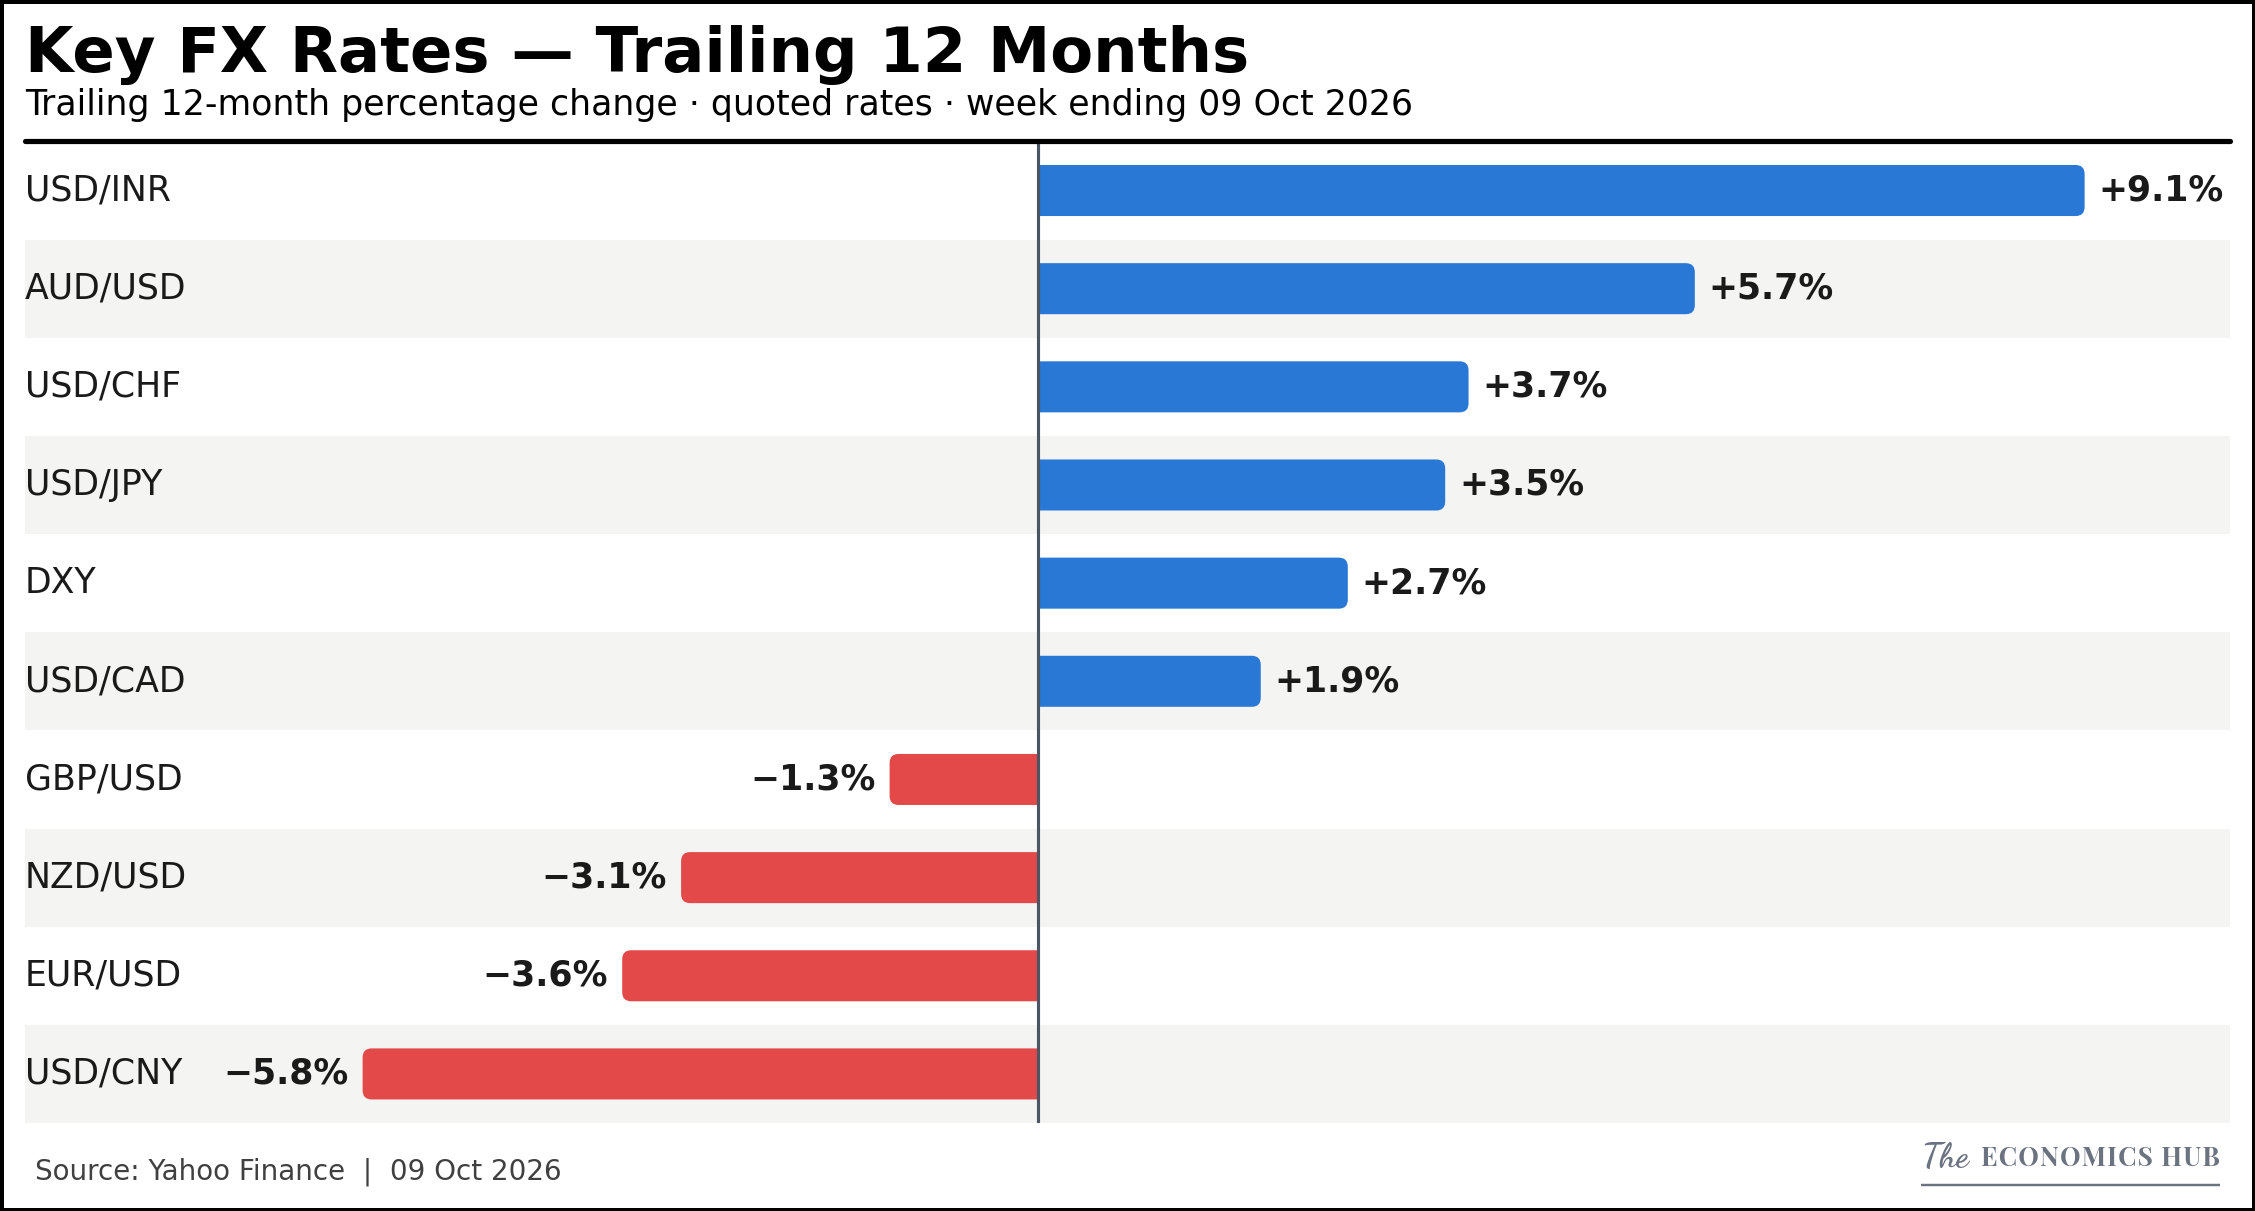
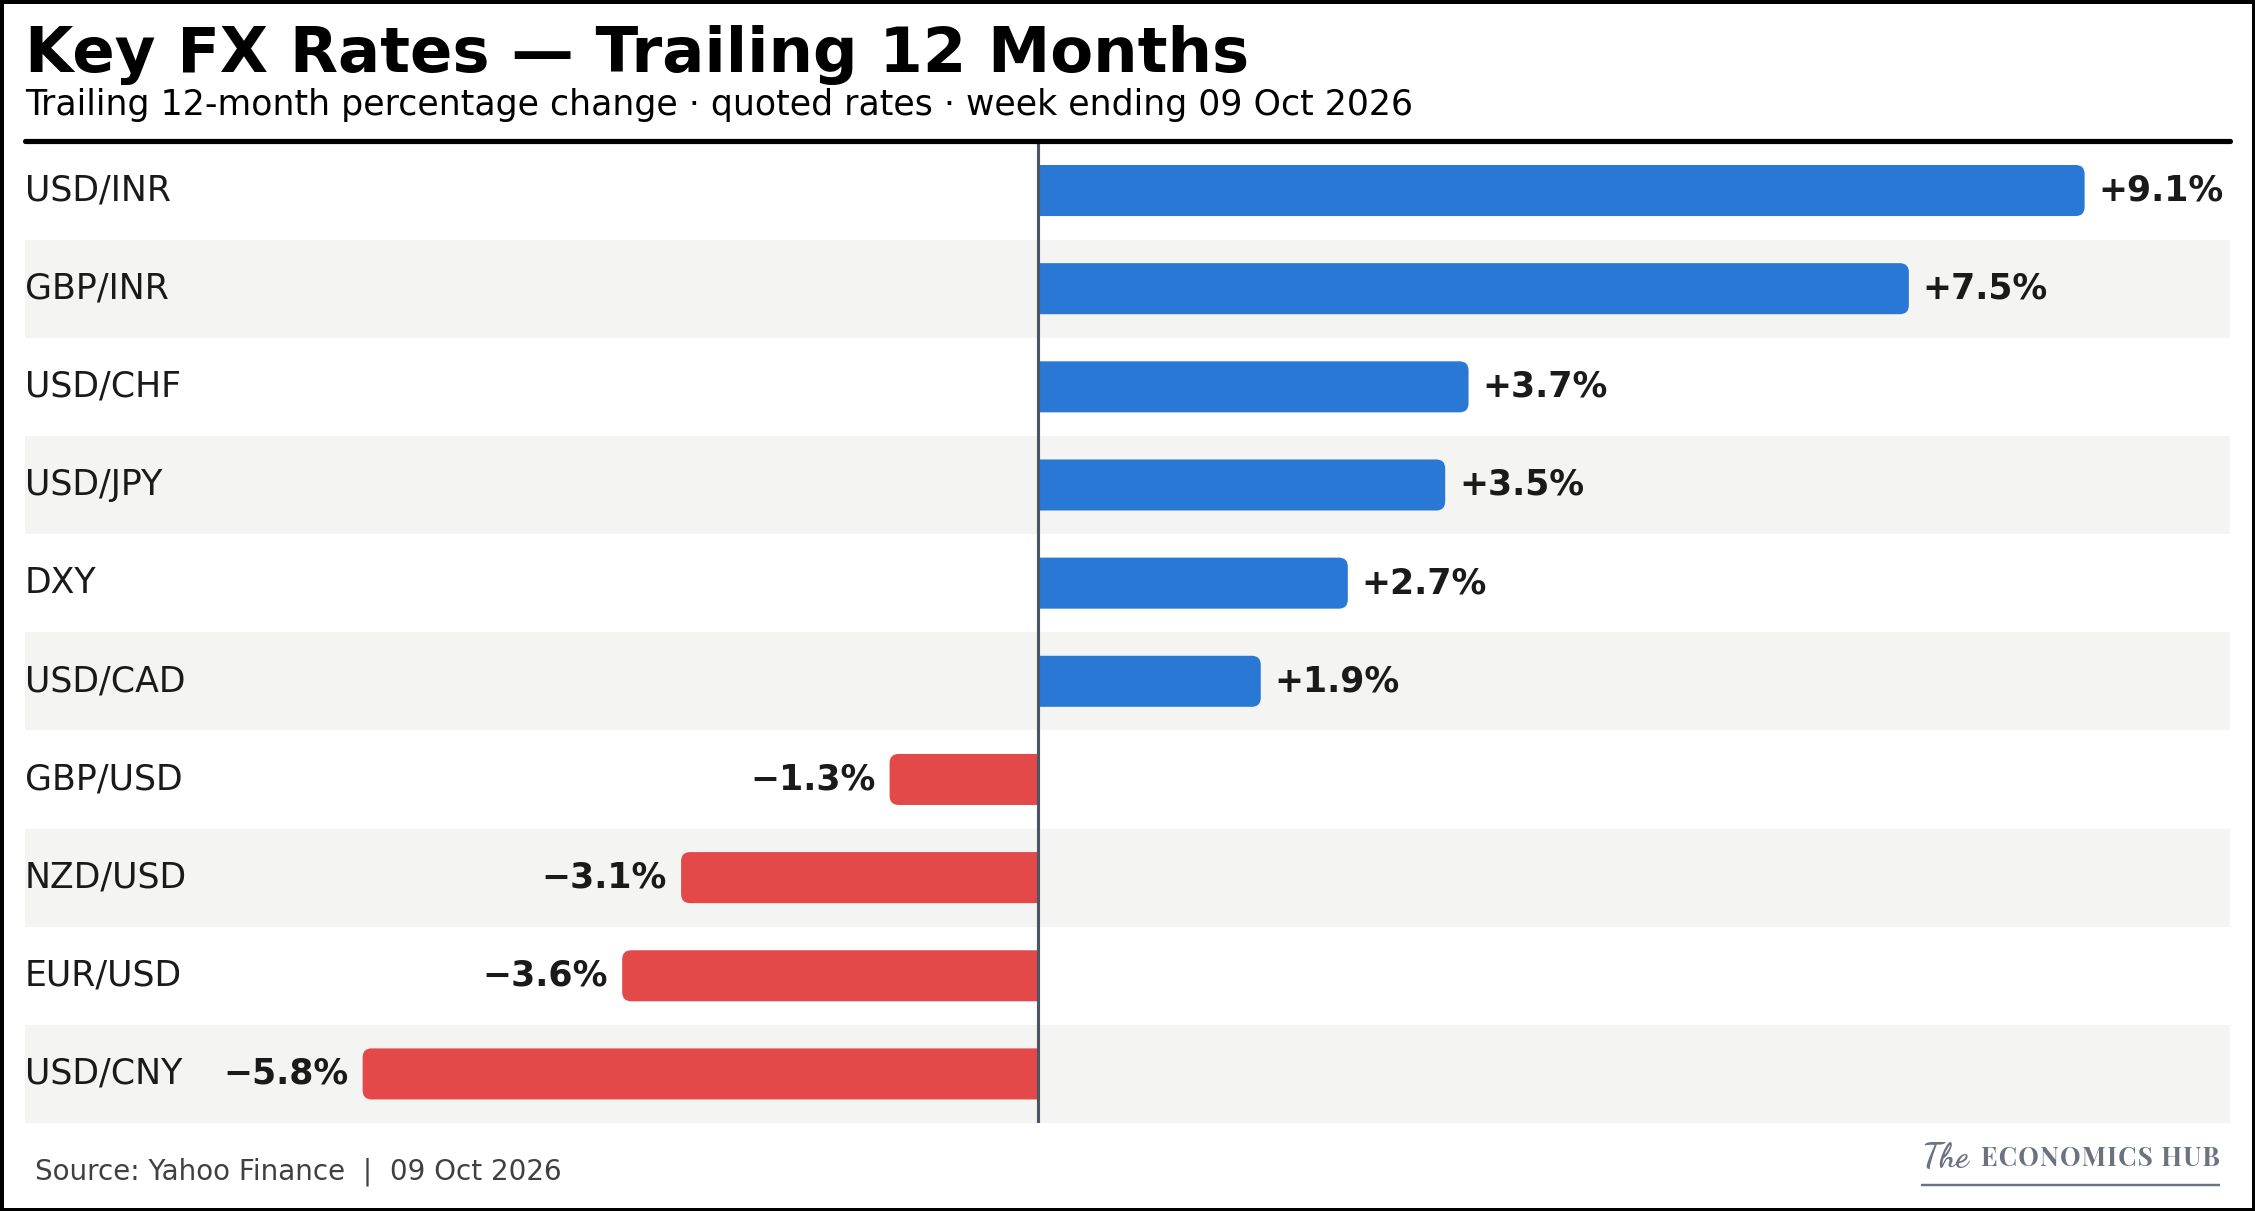
fix: replace AUD USD with GBP INR in currency charts

Changed region(s): [[0.745, 0.2139, 0.9002, 0.275], [0.0, 0.2139, 0.0931, 0.2444]]

diff --git a/config/insights.py b/config/insights.py
@@ -120,13 +120,13 @@ Youth unemployment is structurally higher than overall unemployment; compare the
     # ── WEEKLY: FOREIGN EXCHANGE ────────────────────────────────────────────
 
     "fx_weekly": """\
-**How to read this chart:** Weekly percentage moves from the previous completed Friday to the latest completed Friday in nine currency pairs and DXY (US Dollar Index). For EUR/USD, GBP/USD, AUD/USD and NZD/USD, a positive bar means the dollar *weakened*. For USD/INR, USD/JPY, USD/CNY, USD/CAD and USD/CHF, a positive bar means the dollar *strengthened*. DXY provides the dollar-basket context. Blue and red show the sign of the quoted rate's move, rather than whether it is good or bad.
+**How to read this chart:** Weekly percentage moves from the previous completed Friday to the latest completed Friday in nine currency pairs and DXY (US Dollar Index). For EUR/USD, GBP/USD and NZD/USD, a positive bar means the dollar *weakened*. For USD/INR, USD/JPY, USD/CNY, USD/CAD and USD/CHF, a positive bar means the dollar *strengthened*. A positive GBP/INR bar means sterling strengthened against the rupee. DXY provides the dollar-basket context. Blue and red show the sign of the quoted rate's move, rather than whether it is good or bad.
 
 **Practical takeaway:** Dollar strength weeks (DXY up, EM pairs showing dollar appreciation) tend to coincide with risk-off sentiment, rising US yields, or hawkish Fed rhetoric. Watch the USD/INR bar against the India VIX: when the rupee depreciates alongside rising India VIX, it signals portfolio capital outflows. A divergence where USD/JPY weakens sharply without a corresponding DXY move may indicate a carry trade unwind — historically a precursor to broader EM volatility.
 """,
 
     "fx_trend": """\
-**How to read this chart:** Ranked percentage changes over the trailing 12 months for the same nine currency pairs and DXY shown in the weekly chart. Blue bars mean the quoted rate rose; red bars mean it fell. A positive EUR/USD, GBP/USD, AUD/USD or NZD/USD bar means the dollar weakened against that currency. A positive USD/INR, USD/JPY, USD/CNY, USD/CAD or USD/CHF bar means the dollar strengthened. DXY rising indicates a stronger dollar against its basket. Returns compare observed closes around the last completed Friday and the same date one year earlier.
+**How to read this chart:** Ranked percentage changes over the trailing 12 months for the same nine currency pairs and DXY shown in the weekly chart. Blue bars mean the quoted rate rose; red bars mean it fell. A positive EUR/USD, GBP/USD or NZD/USD bar means the dollar weakened against that currency. A positive USD/INR, USD/JPY, USD/CNY, USD/CAD or USD/CHF bar means the dollar strengthened. A positive GBP/INR bar means sterling strengthened against the rupee. DXY rising indicates a stronger dollar against its basket. Returns compare observed closes around the last completed Friday and the same date one year earlier.
 
 **Practical takeaway:** Compare the weekly and 12-month bars to see whether the week's move extends or reverses the longer-term direction. Read each pair's quote direction before comparing it with DXY. For India, a rising USD/INR bar means rupee depreciation over the period and more rupees needed for dollar-priced imports.
 """,

diff --git a/config/weekly_settings.py b/config/weekly_settings.py
@@ -22,7 +22,7 @@ WEEKLY_FX = {
     "USD/INR": "INR=X",
     "USD/JPY": "JPY=X",
     "USD/CNY": "CNY=X",
-    "AUD/USD": "AUDUSD=X",
+    "GBP/INR": "GBPINR=X",
     "USD/CAD": "CAD=X",
     "USD/CHF": "CHF=X",
     "NZD/USD": "NZDUSD=X",

diff --git a/docs/project_context.md b/docs/project_context.md
@@ -454,7 +454,7 @@ draws them instead — the snapshot table (00), the trend lines (02, 04, 08) and
 | `12_breakeven_inflation` | Breakeven Inflation | Rates, Inflation & Credit | 5- and 10-year breakevens | FRED T5YIE T10YIE |
 | `11_credit_spreads` | Credit Spreads | Rates, Inflation & Credit | IG and HY option-adjusted spreads, 2 years | FRED BAMLC0A0CM BAMLH0A0HYM2 |
 | `18_bond_etf_returns` | Bond ETF Returns | Rates, Inflation & Credit | Trailing 12-month total returns | Yahoo: TLT, LQD, HYG |
-| `03_fx_weekly` | FX Weekly | Currencies | Ranked weekly % change, completed Friday closes | Yahoo: DXY, EUR/USD, GBP/USD, USD/INR, USD/JPY, USD/CNY, AUD/USD, USD/CAD, USD/CHF, NZD/USD |
+| `03_fx_weekly` | FX Weekly | Currencies | Ranked weekly % change, completed Friday closes | Yahoo: DXY, EUR/USD, GBP/USD, USD/INR, USD/JPY, USD/CNY, GBP/INR, USD/CAD, USD/CHF, NZD/USD |
 | `04_fx_trend` | FX TTM | Currencies | Ranked trailing 12-month % change; same ten rates | Yahoo: same set as FX Weekly; `charts/weekly_fx.py`, universe in `config/weekly_settings.py` |
 | `21_em_equity_weekly` | EM Equity Weekly | Emerging Markets & India | Week's % change of EM country ETFs | Yahoo: INDA MCHI EWZ EWY EWT EWW EZA |
 | `20_em_fx_weekly` | EM FX Weekly | Emerging Markets & India | Week's % change vs USD | Yahoo: INR KRW IDR BRL MXN ZAR TRY |
